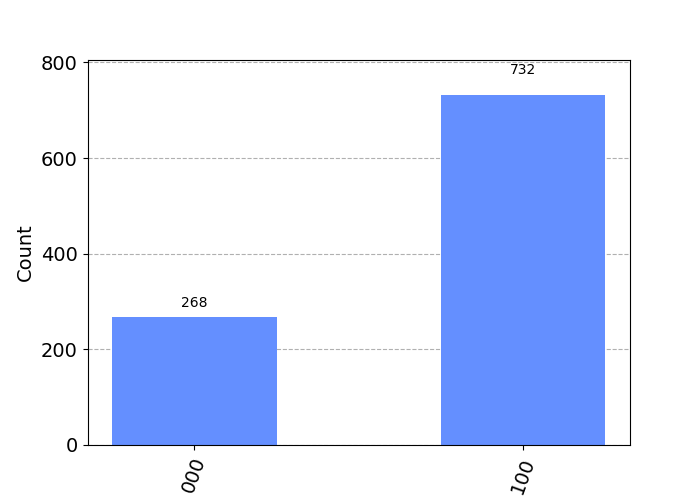
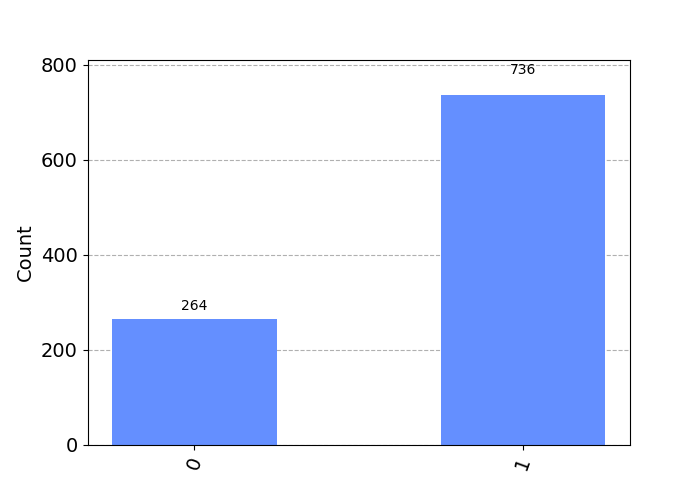
Все готово

diff --git a/task_1_new.py b/task_1_new.py
@@ -4,7 +4,7 @@ from qiskit.visualization import plot_histogram
 
 # 1
 # Создаем трехкубитную квантовую схему
-scheme3 = QuantumCircuit(3, 3)
+scheme3 = QuantumCircuit(3, 1)
 
 # Подаём на вход векторы состояний 0, 1, 0
 scheme3.x(1)  # Устанавливаем состояние |1⟩ на втором кубите
@@ -21,7 +21,7 @@ scheme3.h(0)
 # Применяем гейт Адамара ко второму кубиту
 scheme3.h(1)
 
-scheme3.measure(2, 2)  # Измеряем состояние кубита и применяем результат в классическом бите
+scheme3.measure(2, 0)  # Измеряем состояние кубита и применяем результат в классическом бите
 
 scheme3.draw(output='mpl', filename='scheme3')
 
@@ -34,7 +34,7 @@ plot_histogram(counts, filename='hist_scheme_3')
 
 # 2
 # схема логического и (умножение)
-scheme_and = QuantumCircuit(3, 3)
+scheme_and = QuantumCircuit(3, 1)
 scheme_and.h(0)
 scheme_and.h(1)
 
@@ -42,7 +42,7 @@ scheme_and.barrier()
 # Применяем гейт Тофоли к первому и второму кубитам, результат записываем на третий кубит
 scheme_and.ccx(0, 1, 2)
 
-scheme_and.measure(2, 2)
+scheme_and.measure(2, 0)
 
 scheme_and.draw(output='mpl', filename='scheme_and')
 
@@ -54,7 +54,7 @@ print(f"Number of measurements: {num_measurements}, Result: {counts}")
 plot_histogram(counts, filename='hist_scheme_and')
 
 # схема логического или (сложения)
-scheme_or = QuantumCircuit(3, 3)
+scheme_or = QuantumCircuit(3, 1)
 scheme_or.h(0)
 scheme_or.h(1)
 
@@ -65,7 +65,7 @@ scheme_or.x(1)
 scheme_or.ccx(0, 1, 2)
 scheme_or.x(2)
 
-scheme_or.measure(2, 2)
+scheme_or.measure(2, 0)
 
 scheme_or.draw(output='mpl', filename='scheme_or')
 
@@ -78,7 +78,7 @@ plot_histogram(counts, filename='hist_scheme_or')
 
 # 3
 # y = x1 + x2
-scheme_xor = QuantumCircuit(3, 3)
+scheme_xor = QuantumCircuit(3, 1)
 
 scheme_xor.h(0)
 scheme_xor.h(1)
@@ -89,7 +89,7 @@ scheme_or.barrier()
 scheme_xor.cx(0, 2)  # Применяем CNOT гейт с первого кубита на третий
 scheme_xor.cx(1, 2)  # Применяем CNOT гейт с второго кубита на третий
 
-scheme_xor.measure(2, 2)
+scheme_xor.measure(2, 0)
 
 scheme_xor.draw(output='mpl', filename='scheme_xor')
 
